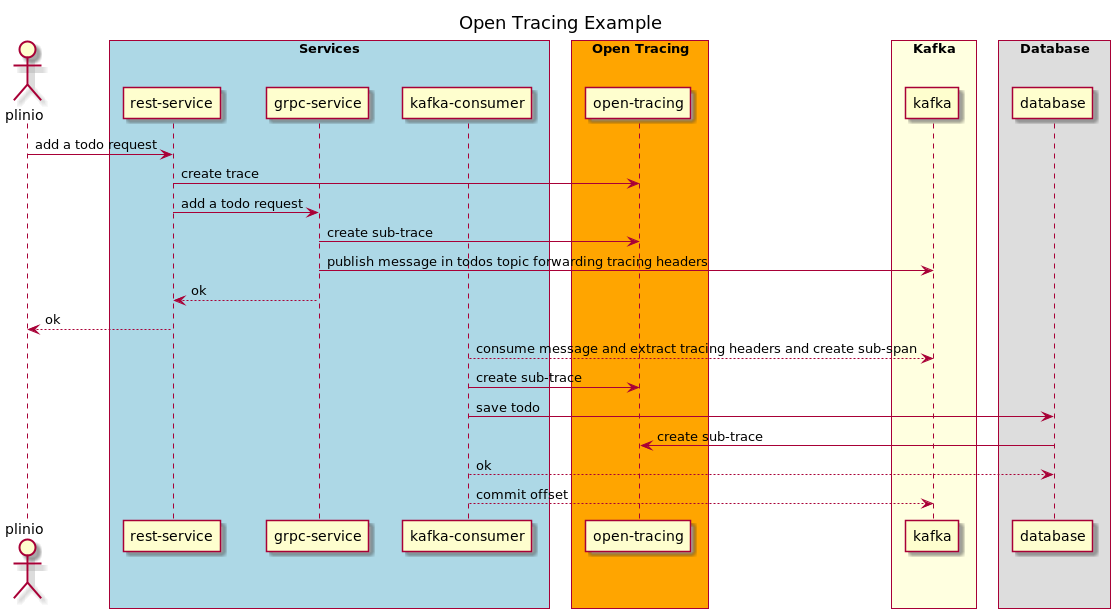
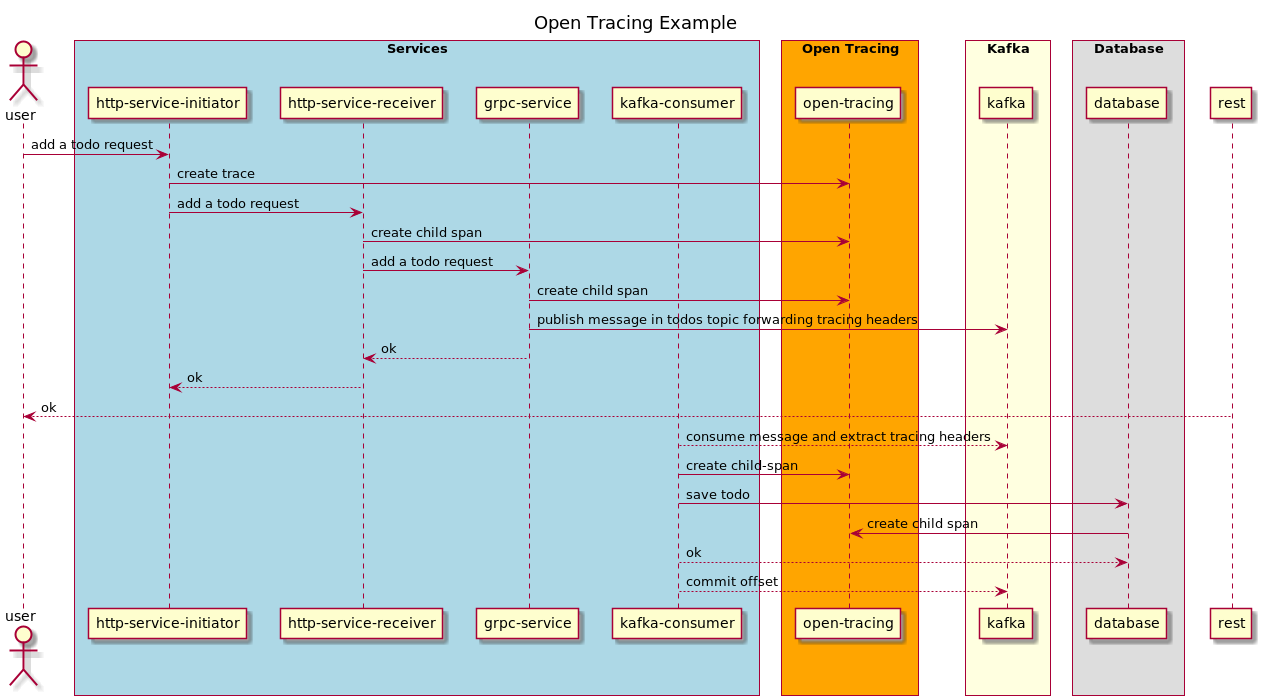
WIP on refactoring.

diff --git a/src/http-server-initiator/cmd/main.go b/src/http-server-initiator/cmd/main.go
@@ -1,18 +1,14 @@
 package main
 
 import (
-	"bytes"
 	"context"
-	"encoding/json"
 	"fmt"
 	"log"
 	"net/http"
 	"os"
 	"time"
 
-	"github.com/gorilla/mux"
 	"github.com/opentracing/opentracing-go"
-	"github.com/opentracing/opentracing-go/ext"
 	"github.com/uber/jaeger-client-go"
 	"github.com/uber/jaeger-client-go/config"
 	jaegercfg "github.com/uber/jaeger-client-go/config"
@@ -20,7 +16,7 @@ import (
 	"github.com/uber/jaeger-lib/metrics"
 	"golang.org/x/sync/errgroup"
 
-	"github.com/andream16/go-opentracing-example/src/http-server-initiator/todo"
+	transporthttp "github.com/andream16/go-opentracing-example/src/http-server-initiator/transport/http"
 )
 
 func main() {
@@ -48,7 +44,6 @@ func main() {
 
 	var (
 		ctx, cancel = context.WithCancel(context.Background())
-		router      = mux.NewRouter()
 		httpClient  = &http.Client{Timeout: 10 * time.Second}
 	)
 
@@ -77,53 +72,11 @@ func main() {
 	opentracing.SetGlobalTracer(tracer)
 	defer closer.Close()
 
-	router.HandleFunc("/initiator/todo", func(w http.ResponseWriter, r *http.Request) {
-		receiverURL := httpServerReceiverHostname + "/receiver/todo"
-
-		span := opentracing.GlobalTracer().StartSpan("initiator_todo")
-		defer span.Finish()
-
-		var t todo.Todo
-		defer r.Body.Close()
-
-		if err := json.NewDecoder(r.Body).Decode(&t); err != nil {
-			log.Println(fmt.Sprintf("could not deserialise request body: %s", err))
-			w.WriteHeader(http.StatusBadRequest)
-			return
-		}
-
-		b, err := json.Marshal(t)
-		if err != nil {
-			log.Println(fmt.Sprintf("could serialise todo: %s", err))
-			w.WriteHeader(http.StatusInternalServerError)
-			return
-		}
-
-		req, err := http.NewRequestWithContext(ctx, http.MethodPost, httpServerReceiverHostname+"/receiver/todo", bytes.NewReader(b))
-		if err != nil {
-			log.Println(fmt.Sprintf("could not create a new http request: %s", err))
-			w.WriteHeader(http.StatusInternalServerError)
-			return
-		}
-
-		ext.SpanKindRPCClient.Set(span)
-		ext.HTTPUrl.Set(span, receiverURL)
-		ext.HTTPMethod.Set(span, http.MethodPost)
-
-		if err := tracer.Inject(span.Context(), opentracing.HTTPHeaders, opentracing.HTTPHeadersCarrier(req.Header)); err != nil {
-			log.Println(fmt.Sprintf("could not inject tracing headers: %s", err))
-		}
-
-		if _, err := httpClient.Do(req); err != nil {
-			log.Println(fmt.Sprintf("could not perform receiver request: %s", err))
-			w.WriteHeader(http.StatusInternalServerError)
-			return
-		}
-	}).Methods(http.MethodPost)
+	handler := transporthttp.NewHandler(httpClient, httpServerReceiverHostname)
 
 	server := &http.Server{
 		Addr:         httpServerHostname,
-		Handler:      router,
+		Handler:      handler.Router(),
 		ReadTimeout:  10 * time.Second,
 		WriteTimeout: 5 * time.Second,
 		IdleTimeout:  60 * time.Second,

diff --git a/src/http-server-initiator/transport/http/handler.go b/src/http-server-initiator/transport/http/handler.go
@@ -1,0 +1,58 @@
+package http
+
+import (
+	"bytes"
+	"encoding/json"
+	"fmt"
+	"log"
+	"net/http"
+
+	"github.com/opentracing/opentracing-go"
+	"github.com/opentracing/opentracing-go/ext"
+
+	"github.com/andream16/go-opentracing-example/src/http-server-initiator/todo"
+)
+
+func (h Handler) CreateTodo(w http.ResponseWriter, r *http.Request) {
+	gt, receiverURL := opentracing.GlobalTracer(), h.receiverHostname+"/receiver/todo"
+
+	span := gt.StartSpan("initiator_todo")
+	defer span.Finish()
+
+	var t todo.Todo
+	defer r.Body.Close()
+
+	if err := json.NewDecoder(r.Body).Decode(&t); err != nil {
+		log.Println(fmt.Sprintf("could not deserialise request body: %s", err))
+		w.WriteHeader(http.StatusBadRequest)
+		return
+	}
+
+	b, err := json.Marshal(t)
+	if err != nil {
+		log.Println(fmt.Sprintf("could serialise todo: %s", err))
+		w.WriteHeader(http.StatusInternalServerError)
+		return
+	}
+
+	req, err := http.NewRequestWithContext(r.Context(), http.MethodPost, receiverURL, bytes.NewReader(b))
+	if err != nil {
+		log.Println(fmt.Sprintf("could not create a new http request: %s", err))
+		w.WriteHeader(http.StatusInternalServerError)
+		return
+	}
+
+	ext.SpanKindRPCClient.Set(span)
+	ext.HTTPUrl.Set(span, receiverURL)
+	ext.HTTPMethod.Set(span, http.MethodPost)
+
+	if err := gt.Inject(span.Context(), opentracing.HTTPHeaders, opentracing.HTTPHeadersCarrier(req.Header)); err != nil {
+		log.Println(fmt.Sprintf("could not inject tracing headers: %s", err))
+	}
+
+	if _, err := h.httpClient.Do(req); err != nil {
+		log.Println(fmt.Sprintf("could not perform receiver request: %s", err))
+		w.WriteHeader(http.StatusInternalServerError)
+		return
+	}
+}

diff --git a/src/shared/health/health.go b/src/shared/health/health.go
@@ -1,0 +1,40 @@
+package health
+
+import (
+	"context"
+	"log"
+	"time"
+)
+
+// Checker represents an health checker.
+type Checker interface {
+	Check(ctx context.Context) error
+	Name() string
+	TimeoutAfter() time.Duration
+}
+
+// HealthChecker holds the health checks.
+type HealthChecker struct {
+	checkers []Checker
+}
+
+// NewHealthChecker returns a new health checkers.
+func NewHealthChecker(checkers ...Checker) HealthChecker {
+	return HealthChecker{checkers: checkers}
+}
+
+// Check executes all the associated health checks till they complete successfully.
+func (hc HealthChecker) Check(ctx context.Context) error {
+	for _, c := range hc.checkers {
+		ctx, cancel := context.WithTimeout(ctx, c.TimeoutAfter())
+		defer cancel()
+
+		for err := c.Check(ctx); err != nil; {
+			log.Printf("failed health check %s: %v", c.Name(), err)
+			ctx, cancel = context.WithTimeout(ctx, c.TimeoutAfter())
+			defer cancel()
+		}
+	}
+
+	return nil
+}

diff --git a/src/http-server-initiator/transport/http/router.go b/src/http-server-initiator/transport/http/router.go
@@ -1,0 +1,33 @@
+package http
+
+import (
+	"net/http"
+
+	"github.com/gorilla/mux"
+)
+
+// Handler wraps a mux router.
+type Handler struct {
+	httpClient       *http.Client
+	receiverHostname string
+	router           *mux.Router
+}
+
+// NewHandler returns a new http handler.
+func NewHandler(httpClient *http.Client, receiverHostname string) Handler {
+	handler := Handler{
+		httpClient:       httpClient,
+		receiverHostname: receiverHostname,
+		router:           mux.NewRouter(),
+	}
+
+	handler.Router().HandleFunc("/initiator/todo", handler.CreateTodo).Methods(http.MethodPost)
+	handler.Router().HandleFunc("/_health", func(w http.ResponseWriter, r *http.Request) {})
+
+	return handler
+}
+
+// Router returns the inner router.
+func (h Handler) Router() *mux.Router {
+	return h.router
+}
